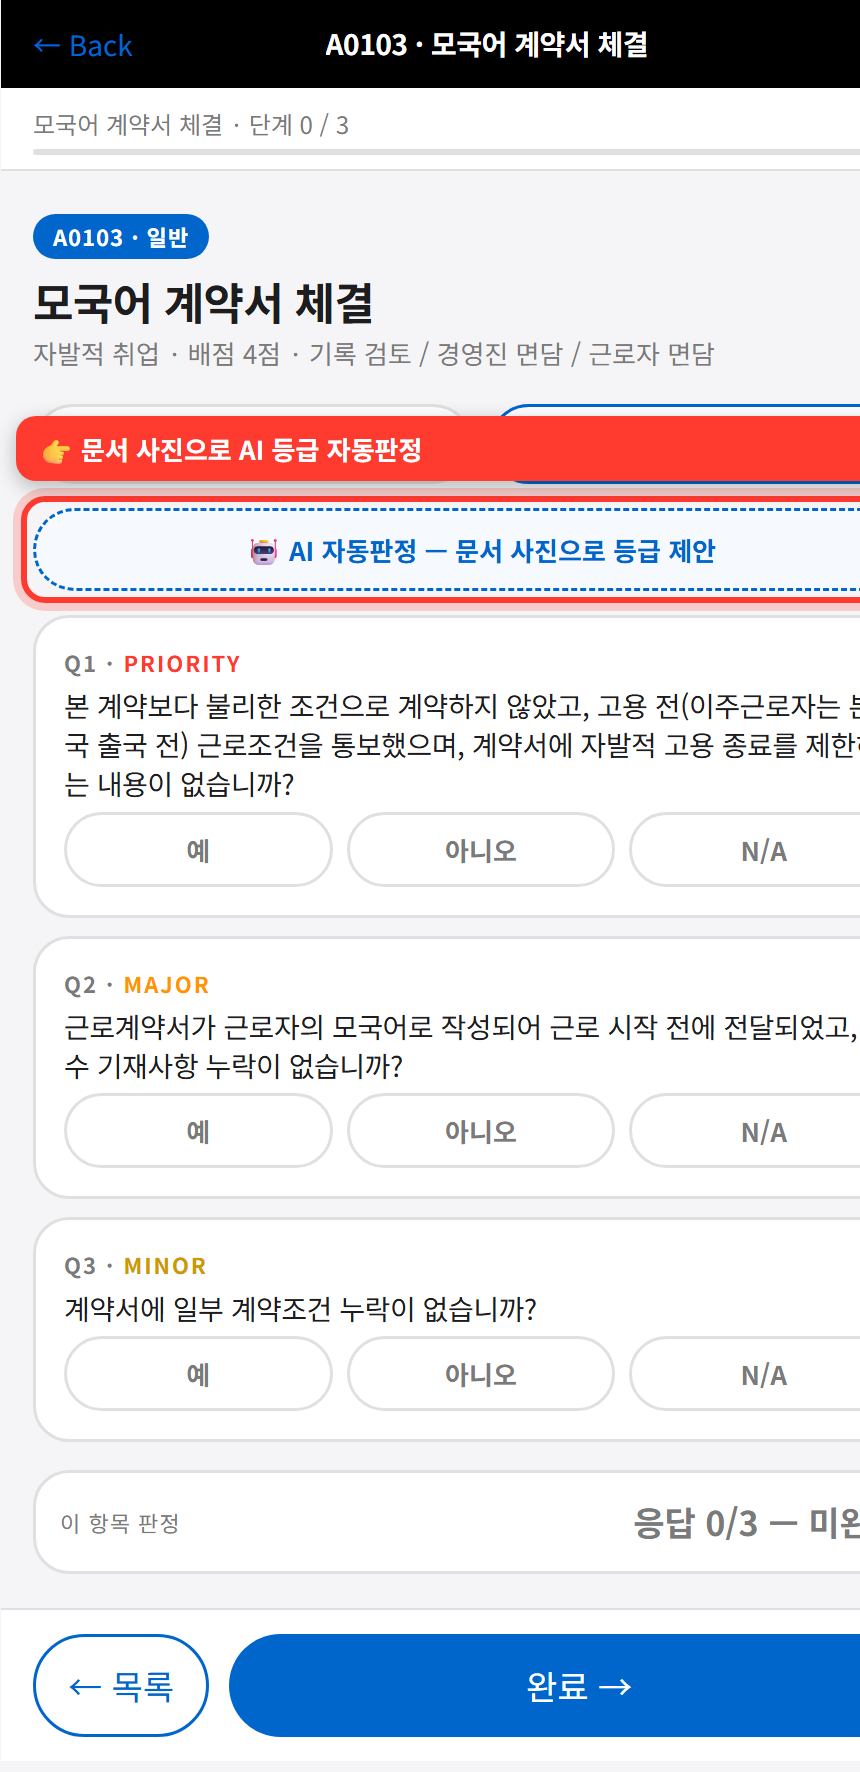
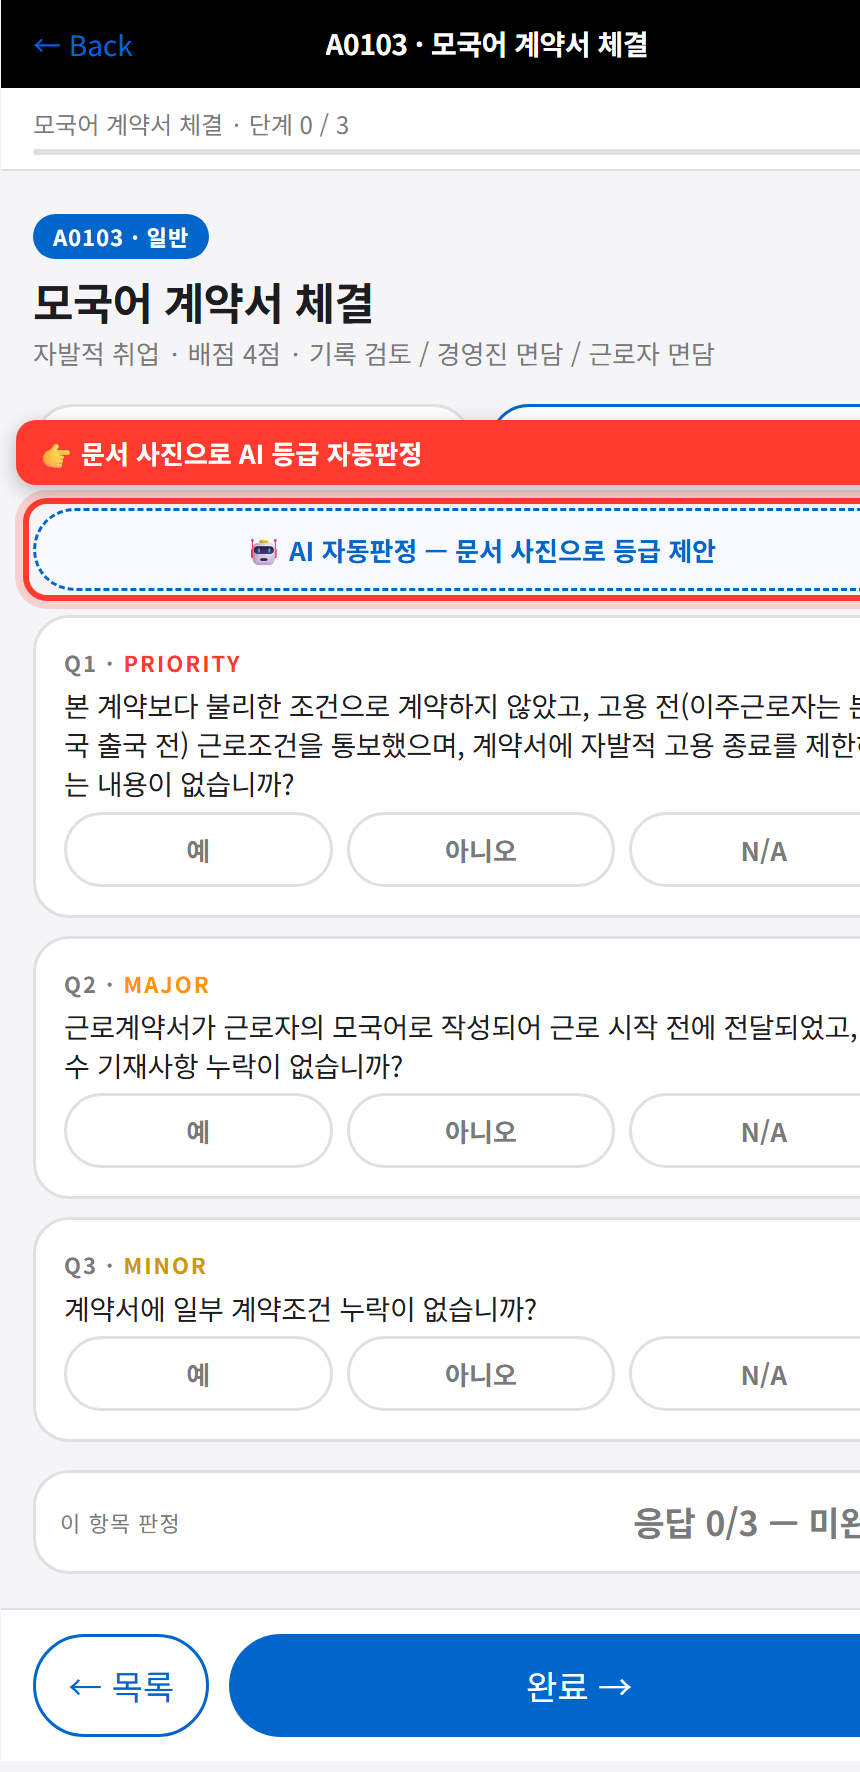
Manual: bilingual KO/EN screenshots + localized AI chrome; fix captions
- English screenshot set under manual/en/ (app rendered in EN)
- Manual Features tab loads manual/en/*.png when language is English
- Localize AI chrome to S.lang: auto-judge button, suggestion card,
  AI panel title, settings form
- Caption placement no longer covers the target button

Changed region(s): [[0.0, 0.2483, 1.0, 0.3414]]

diff --git a/manual/_cap.html b/manual/_cap.html
@@ -35,27 +35,42 @@
 </div>
 <script src="../app.js"></script>
 <script>
-// ── 매뉴얼용 스크린샷 캡처 하니스 ──
+// ── 매뉴얼용 스크린샷 캡처 하니스 (?shot=키&lang=ko|en) ──
 (function(){
-  const shot=new URLSearchParams(location.search).get('shot');
-  if(!shot)return;
+  const q=new URLSearchParams(location.search);
+  const shot=q.get('shot'); if(!shot)return;
+  const LANG=(location.hash.slice(1)==='en')?'en':'ko';
+  const en=LANG==='en';
   function seed(){
-    S=initState();S.vendorCode='DEMO-01';S.country='베트남';S.lang='ko';
+    S=initState();S.vendorCode='DEMO-01';S.country=en?'Vietnam':'베트남';S.lang=LANG;
     ['a11','a12','a21','a22','a31'].forEach(id=>{S.done[id]=true;});
   }
+  const aiDemo=en
+    ?{suggested_grade:'minor',confidence:0.82,doc_summary:'Employment contract in Vietnamese + Korean. Signature and seal confirmed. Some required fields (working hours) are missing.',rationale:'Minor ① applies — a contract exists but some terms are incomplete.',answers:[{q_id:'Q1',answer:'yes',evidence:'Native language (Vietnamese) present'},{q_id:'Q2',answer:'no',evidence:'Working-hours clause missing'}]}
+    :{suggested_grade:'minor',confidence:0.82,doc_summary:'베트남어·한국어 병기 근로계약서. 서명·직인 확인됨. 필수기재 중 근로시간 조항 일부 누락.',rationale:'판정기준 Minor ① 적용 — 계약서는 있으나 일부 조건 누락.',answers:[{q_id:'Q1',answer:'yes',evidence:'모국어(베트남어) 병기 확인'},{q_id:'Q2',answer:'no',evidence:'필수기재 중 근로시간 누락'}]};
+  const C={
+    share1:{ko:'여기를 눌러 협력사 사전점검을 요청',en:'Tap here to request supplier pre-check'},
+    share2:{ko:'링크 복사 → 협력사에 전달',en:'Copy link → send to supplier'},
+    excel:{ko:'점검 결과를 Excel(CSV)로 내보내기',en:'Export results to Excel (CSV)'},
+    aibtn:{ko:'문서 사진으로 AI 등급 자동판정',en:'AI auto-judge from document photos'},
+    aicard:{ko:'[제안 적용]을 누르면 문항에 반영',en:'Tap [Apply] to prefill the questions'},
+    aichat:{ko:'설정(⚙)에서 API 키 입력 후 저장',en:'Enter your API key in Settings, then Save'},
+    save:{ko:'저장된 점검 — 눌러서 이어서 작업',en:'Saved audit — tap to resume'},
+    fab:{ko:'✦ AI 도우미 — 문서분석·질의',en:'✦ AI assistant — analysis & Q&A'},
+  };
   const SHOTS={
-    share1:{setup(){seed();S.screen='home';S.homeTab='audit';},sel:'button[onclick*="supgen"]',cap:'여기를 눌러 협력사 사전점검을 요청합니다'},
-    share2:{setup(){seed();S.screen='supgen';},sel:'#copyBtn',cap:'링크 복사 → 카카오톡/이메일로 협력사에 전달'},
-    excel:{setup(){seed();S.screen='home';S.homeTab='audit';},sel:'button[onclick*="exportCSV"]',cap:'점검 결과를 Excel(CSV) 파일로 내보내기'},
-    aibtn:{setup(){seed();S.homeTab='nsup';S.screen='nsupItem';S.nsupItem='A0103';},sel:'button[onclick*="aiJudgeOpen"]',cap:'문서 사진으로 AI 등급 자동판정'},
-    aicard:{setup(){seed();S.homeTab='nsup';S.screen='nsupItem';S.nsupItem='A0103';S.nsupOpen={ai_A0103:true};S.nsupAI={A0103:{suggested_grade:'minor',confidence:0.82,doc_summary:'베트남어·한국어 병기 근로계약서. 서명·직인 확인됨. 필수기재 중 근로시간 조항 일부 누락.',rationale:'판정기준 Minor ① 적용 — 계약서는 있으나 일부 조건 누락.',answers:[{q_id:'Q1',answer:'yes',evidence:'모국어(베트남어) 병기 확인'},{q_id:'Q2',answer:'no',evidence:'필수기재 중 근로시간 누락'}]}};},sel:'.ai-sugg .ap',cap:'[제안 적용]을 누르면 문항에 자동 반영됩니다'},
-    aichat:{setup(){seed();S.screen='home';},after(){document.getElementById('aiScrim').classList.remove('ai-hidden');document.getElementById('aiPanel').classList.remove('ai-hidden');aiToggleSettings();},sel:'#aiCfgKey',cap:'설정(⚙)에서 API 키를 입력 후 저장'},
-    save:{setup(){localStorage.setItem('vap_sessions',JSON.stringify([{code:'DEMO-01',country:'베트남',lang:'ko',lastUpdated:new Date().toISOString(),rate:75,done:8,total:19}]));S=initState();S.screen='landing';},sel:'.sess-card',cap:'저장된 점검 — 눌러서 이어서 작업'},
-    fab:{setup(){seed();S.screen='home';},sel:'#aiFab',cap:'✦ AI 도우미 — 문서분석·질의응답'},
+    share1:{setup(){seed();S.screen='home';S.homeTab='audit';},sel:'button[onclick*="supgen"]'},
+    share2:{setup(){seed();S.screen='supgen';},sel:'#copyBtn'},
+    excel:{setup(){seed();S.screen='home';S.homeTab='audit';},sel:'button[onclick*="exportCSV"]'},
+    aibtn:{setup(){seed();S.homeTab='nsup';S.screen='nsupItem';S.nsupItem='A0103';},sel:'button[onclick*="aiJudgeOpen"]'},
+    aicard:{setup(){seed();S.homeTab='nsup';S.screen='nsupItem';S.nsupItem='A0103';S.nsupOpen={ai_A0103:true};S.nsupAI={A0103:aiDemo};},sel:'.ai-sugg .ap'},
+    aichat:{setup(){seed();S.screen='home';},after(){document.getElementById('aiScrim').classList.remove('ai-hidden');document.getElementById('aiPanel').classList.remove('ai-hidden');var t=document.getElementById('aiTitle');if(t)t.textContent=en?'AI Assistant · Docs & Q&A':'AI 도우미 · 문서분석 & 질의';aiToggleSettings();},sel:'#aiCfgKey'},
+    save:{setup(){localStorage.setItem('vap_sessions',JSON.stringify([{code:'DEMO-01',country:en?'Vietnam':'베트남',lang:LANG,lastUpdated:new Date().toISOString(),rate:75,done:8,total:19}]));S=initState();S.lang=LANG;S.screen='landing';},sel:'.sess-card'},
+    fab:{setup(){seed();S.screen='home';},sel:'#aiFab'},
   };
   const cfg=SHOTS[shot];
   if(!cfg){document.title='NOSHOT';return;}
-  // 캡처용 스타일: 배경 여백 제거, FAB 숨김(‘fab’ 샷 제외)
+  const cap=(C[shot]||{})[LANG]||'';
   const st=document.createElement('style');
   st.textContent='html,body,#app{min-height:0!important}'+(shot==='fab'?'':'#aiFab{display:none!important}');
   document.head.appendChild(st);
@@ -67,16 +82,16 @@
       const r=el.getBoundingClientRect();
       const ax=r.left+window.scrollX, ay=r.top+window.scrollY;
       const ring=document.createElement('div');
-      ring.style.cssText='position:absolute;left:'+(ax-6)+'px;top:'+(ay-6)+'px;width:'+(r.width+12)+'px;height:'+(r.height+12)+'px;border:3px solid #ff3b30;border-radius:12px;box-shadow:0 0 0 4px rgba(255,59,48,.22);z-index:99998;pointer-events:none';
+      ring.style.cssText='position:absolute;left:'+(ax-5)+'px;top:'+(ay-5)+'px;width:'+(r.width+10)+'px;height:'+(r.height+10)+'px;border:3px solid #ff3b30;border-radius:12px;box-shadow:0 0 0 4px rgba(255,59,48,.20);z-index:99998;pointer-events:none';
       document.body.appendChild(ring);
-      if(cfg.cap){
+      if(cap){
         const lab=document.createElement('div');
-        lab.textContent='👉 '+cfg.cap;
-        const ly=ay>70?(ay-46):(ay+r.height+10);
-        lab.style.cssText='position:absolute;left:8px;right:8px;top:'+ly+'px;background:#ff3b30;color:#fff;font:600 13px/1.45 -apple-system,BlinkMacSystemFont,sans-serif;padding:7px 11px;border-radius:10px;z-index:99999;box-shadow:0 3px 10px rgba(0,0,0,.25)';
+        lab.textContent='👉 '+cap;
+        // 대상 위에 공간이 있으면 위, 없으면 아래에 배치 (버튼을 가리지 않음)
+        let ly=ay-44; if(ly<8) ly=ay+r.height+12;
+        lab.style.cssText='position:absolute;left:8px;right:8px;top:'+ly+'px;background:#ff3b30;color:#fff;font:700 13px/1.45 -apple-system,BlinkMacSystemFont,sans-serif;padding:7px 11px;border-radius:10px;z-index:99999;box-shadow:0 3px 10px rgba(0,0,0,.25)';
         document.body.appendChild(lab);
       }
-      // 문서 높이를 캡처 창에 맞춰 노출 (제목에 실어 PS에서 활용)
       document.title='H'+Math.min(3600,Math.ceil(ay+r.height+60));
     } else { document.title='NOEL'; }
   },200);

diff --git a/app.js b/app.js
@@ -2263,7 +2263,7 @@ function screenNsupItem(){
 
     ${critOpen?`<div class="nsup-card"><div class="nsup-sc">배점 — 적합 ${it.c} · Minor ${it.mi} · Major ${it.mj} · Priority ${it.pr} · N/A ${it.na}</div><div class="nsup-crit">${esc(it.crit)}</div></div>`:''}
 
-    <button onclick="aiJudgeOpen('${id}')" style="width:100%;margin-bottom:12px;padding:10px;border-radius:var(--pill);border:1.5px dashed var(--blue);background:#f6faff;color:var(--blue);font-size:13px;font-weight:700;font-family:inherit;cursor:pointer">🤖 AI 자동판정 — 문서 사진으로 등급 제안</button>
+    <button onclick="aiJudgeOpen('${id}')" style="width:100%;margin-bottom:12px;padding:10px;border-radius:var(--pill);border:1.5px dashed var(--blue);background:#f6faff;color:var(--blue);font-size:13px;font-weight:700;font-family:inherit;cursor:pointer">${S.lang==='en'?'🤖 AI Auto-Judge — grade from document photos':'🤖 AI 자동판정 — 문서 사진으로 등급 제안'}</button>
 
     ${aiSuggCard(id,it)}
 
@@ -3348,7 +3348,7 @@ function aiShowPanel(){
   document.getElementById('aiCfg').classList.add('ai-hidden');
   document.getElementById('aiFoot').classList.remove('ai-hidden');
   const t=document.getElementById('aiTitle');
-  if(t)t.textContent=aiS.judge?`AI 자동판정 · ${aiS.judge}`:'AI 도우미 · 문서분석 & 질의';
+  if(t)t.textContent=aiS.judge?`${S.lang==='en'?'AI Auto-Judge':'AI 자동판정'} · ${aiS.judge}`:(S.lang==='en'?'AI Assistant · Docs & Q&A':'AI 도우미 · 문서분석 & 질의');
   const inp=document.getElementById('aiInput');
   if(inp)inp.placeholder=aiS.judge?'참고사항 (선택)…':'질문을 입력하거나 문서 사진을 첨부하세요…';
   aiRender();
@@ -3463,18 +3463,18 @@ function aiToggleSettings(){
   const cfgEl=document.getElementById('aiCfg'),foot=document.getElementById('aiFoot'),body=document.getElementById('aiBody');
   const showing=!cfgEl.classList.contains('ai-hidden');
   if(showing){cfgEl.classList.add('ai-hidden');foot.classList.remove('ai-hidden');body.classList.remove('ai-hidden');return;}
-  const c=aiCfg();
+  const c=aiCfg();const en=S.lang==='en';
   cfgEl.innerHTML=`
-    <h3>AI 연결 설정</h3>
-    <p>Claude API 연결 정보입니다. API 키는 이 기기(localStorage)에만 저장됩니다.</p>
+    <h3>${en?'AI Connection Settings':'AI 연결 설정'}</h3>
+    <p>${en?'Claude API connection. The API key is stored only on this device (localStorage).':'Claude API 연결 정보입니다. API 키는 이 기기(localStorage)에만 저장됩니다.'}</p>
     <label>API Key</label>
-    <input id="aiCfgKey" type="password" placeholder="sk-ant-... (나중에 입력)" value="${aiEsc(c.apiKey)}">
-    <label>모델</label>
+    <input id="aiCfgKey" type="password" placeholder="sk-ant-..." value="${aiEsc(c.apiKey)}">
+    <label>${en?'Model':'모델'}</label>
     <input id="aiCfgModel" value="${aiEsc(c.model)}">
-    <label>엔드포인트 (백엔드 프록시 사용 시 변경)</label>
+    <label>${en?'Endpoint (change when using a backend proxy)':'엔드포인트 (백엔드 프록시 사용 시 변경)'}</label>
     <input id="aiCfgEndpoint" value="${aiEsc(c.endpoint)}">
-    <button class="save" onclick="aiSaveSettings()">저장</button>
-    <p class="note">⚠ 정적 페이지에서 API 키를 직접 넣으면 노출 위험이 있습니다. 운영 시에는 엔드포인트를 서버리스 백엔드 프록시로 바꾸고 키는 서버에만 두세요.</p>`;
+    <button class="save" onclick="aiSaveSettings()">${en?'Save':'저장'}</button>
+    <p class="note">${en?'⚠ Putting an API key in a static page risks exposure. In production, point the endpoint at a serverless backend proxy and keep the key server-side.':'⚠ 정적 페이지에서 API 키를 직접 넣으면 노출 위험이 있습니다. 운영 시에는 엔드포인트를 서버리스 백엔드 프록시로 바꾸고 키는 서버에만 두세요.'}</p>`;
   cfgEl.classList.remove('ai-hidden');foot.classList.add('ai-hidden');body.classList.add('ai-hidden');
 }
 function aiSaveSettings(){
@@ -3611,23 +3611,24 @@ function aiSuggCard(id,it){
   const k=gmeta[sug.suggested_grade];
   const open=(S.nsupOpen||{})['ai_'+id];
   const conf=Math.round((sug.confidence||0)*100);
+  const en=S.lang==='en';
   return`<div class="nsup-card ai-sugg">
     <div class="ai-sugg-h">
-      <span>🤖 AI 제안</span>
+      <span>🤖 ${en?'AI Suggestion':'AI 제안'}</span>
       <span class="icbadge ${k||'ns'}">${AI_GLABEL[sug.suggested_grade]||sug.suggested_grade}</span>
-      <span class="ai-conf">확신도 ${conf}%</span>
+      <span class="ai-conf">${en?'confidence':'확신도'} ${conf}%</span>
     </div>
     ${open?`<div class="ai-sugg-body">
-      <div class="ai-sugg-sec"><b>문서 요약</b><br>${aiEsc(sug.doc_summary||'')}</div>
-      <div class="ai-sugg-sec"><b>근거</b><br>${aiEsc(sug.rationale||'')}</div>
-      ${(sug.answers||[]).map(a=>`<div class="ai-sugg-q"><b>${aiEsc(a.q_id)}</b> · ${a.answer==='unknown'?'확인불가':aiEsc(a.answer).toUpperCase()} — ${aiEsc(a.evidence||'')}</div>`).join('')}
+      <div class="ai-sugg-sec"><b>${en?'Document summary':'문서 요약'}</b><br>${aiEsc(sug.doc_summary||'')}</div>
+      <div class="ai-sugg-sec"><b>${en?'Rationale':'근거'}</b><br>${aiEsc(sug.rationale||'')}</div>
+      ${(sug.answers||[]).map(a=>`<div class="ai-sugg-q"><b>${aiEsc(a.q_id)}</b> · ${a.answer==='unknown'?(en?'unknown':'확인불가'):aiEsc(a.answer).toUpperCase()} — ${aiEsc(a.evidence||'')}</div>`).join('')}
     </div>`:''}
     <div class="ai-sugg-btns">
-      <button onclick="S.nsupOpen['ai_${id}']=!S.nsupOpen['ai_${id}'];render()">${open?'접기':'근거 보기'}</button>
-      <button class="ap" onclick="aiJudgeApply('${id}')">제안 적용</button>
-      <button class="rm" onclick="aiJudgeClear('${id}')">삭제</button>
+      <button onclick="S.nsupOpen['ai_${id}']=!S.nsupOpen['ai_${id}'];render()">${open?(en?'Collapse':'접기'):(en?'View evidence':'근거 보기')}</button>
+      <button class="ap" onclick="aiJudgeApply('${id}')">${en?'Apply':'제안 적용'}</button>
+      <button class="rm" onclick="aiJudgeClear('${id}')">${en?'Delete':'삭제'}</button>
     </div>
-    <div class="ai-sugg-note">※ AI 제안은 초안입니다. 감사자가 문항을 검토·수정해 확정하세요.</div>
+    <div class="ai-sugg-note">${en?'※ AI suggestion is a draft. The auditor reviews and confirms.':'※ AI 제안은 초안입니다. 감사자가 문항을 검토·수정해 확정하세요.'}</div>
   </div>`;
 }
 function aiJudgeApply(id){
@@ -3712,11 +3713,11 @@ function screenManual(){
     <button class="${S.manTab==='proc'?'on':''}" onclick="S.manTab='proc';render();window.scrollTo(0,0)">${U.tabProc}</button></div>`;
   let bodyHtml;
   if(S.manTab==='feat'){
-    bodyHtml=`<p class="man-intro">${U.intro}</p>`+MANUAL_SECTIONS.map(s=>{const c=s[L];return`
+    bodyHtml=`<p class="man-intro">${U.intro}</p>`+MANUAL_SECTIONS.map(s=>{const c=s[L];const src='manual/'+(L==='en'?'en/':'')+s.img.split('/').pop();return`
       <div class="man-sec">
         <div class="man-h"><span class="man-num">${s.n}</span><span class="man-t">${c.title}</span></div>
         <p class="man-desc">${c.desc}</p>
-        <img class="man-img" src="${s.img}" alt="${c.title}" loading="lazy" onclick="viewManualImg('${s.img}')">
+        <img class="man-img" src="${src}" alt="${c.title}" loading="lazy" onclick="viewManualImg('${src}')">
         ${c.steps&&c.steps.length?`<ul class="man-steps">${c.steps.map(x=>`<li>${x}</li>`).join('')}</ul>`:''}
       </div>`;}).join('');
   }else{
